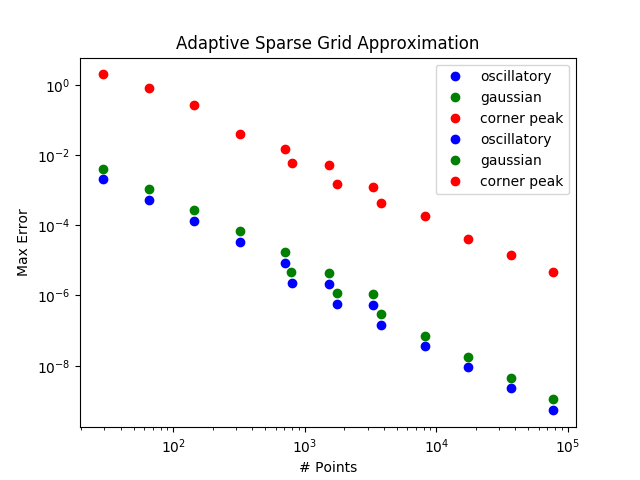
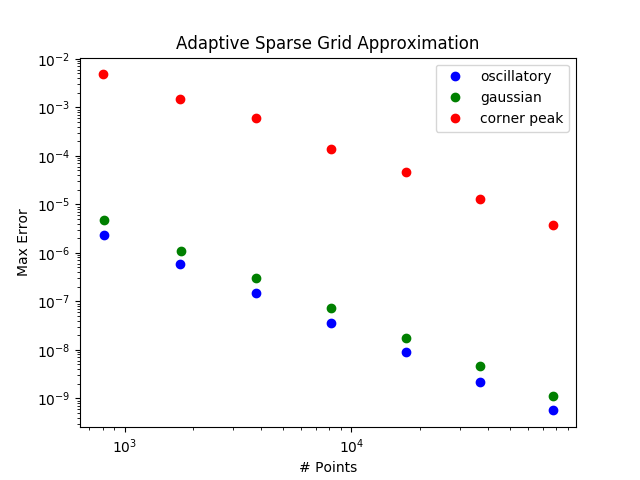
last analytical commit?

diff --git a/day1_SparseGrid/SparseGridCode/analytical_examples/TASMANIAN_Python/homework.py b/day1_SparseGrid/SparseGridCode/analytical_examples/TASMANIAN_Python/homework.py
@@ -172,24 +172,24 @@ plt.xlabel('# Points')
 plt.ylabel('Max Error')
 plt.legend(loc = "upper right")
 plt.show()
-#plt.savefig('SG_approx.png')
-
+plt.savefig('SG_approx.png')
+plt.close()
 # Adaptive Sparse Grid with dimension 2 and 1 output and maximum refinement level 5, refinement criterion.
 iDim = 2
 iOut = 1
-fTol = 1.E-6
+fTol = 1.E-5
 which_basis = 1
 refinement_level = 5
 
-numPointsS, errorStoreS = adaptive_sparse_grid(iDim, iOut, fTol, which_basis, refinement_level, oscillatory, c, w)
-numPointsS1, errorStoreS1 = adaptive_sparse_grid(iDim, iOut, fTol, which_basis, refinement_level, gaussian, c, w)
-numPointsS2, errorStoreS2 = adaptive_sparse_grid(iDim, iOut, fTol, which_basis, refinement_level, corner_peak, c, w)
+numPointsAS, errorStoreAS = adaptive_sparse_grid(iDim, iOut, fTol, which_basis, refinement_level, oscillatory, c, w)
+numPointsAS1, errorStoreAS1 = adaptive_sparse_grid(iDim, iOut, fTol, which_basis, refinement_level, gaussian, c, w)
+numPointsAS2, errorStoreAS2 = adaptive_sparse_grid(iDim, iOut, fTol, which_basis, refinement_level, corner_peak, c, w)
 
 plt.yscale('log')
 plt.xscale('log')
-plt.plot(numPointsS, errorStoreS, 'bo', label = "oscillatory")
-plt.plot(numPointsS1, errorStoreS1, 'go', label = "gaussian")
-plt.plot(numPointsS2, errorStoreS2, 'ro', label = "corner peak")
+plt.plot(numPointsAS, errorStoreAS, 'bo', label = "oscillatory")
+plt.plot(numPointsAS1, errorStoreAS1, 'go', label = "gaussian")
+plt.plot(numPointsAS2, errorStoreAS2, 'ro', label = "corner peak")
 plt.title('Adaptive Sparse Grid Approximation')
 plt.xlabel('# Points')
 plt.ylabel('Max Error')
